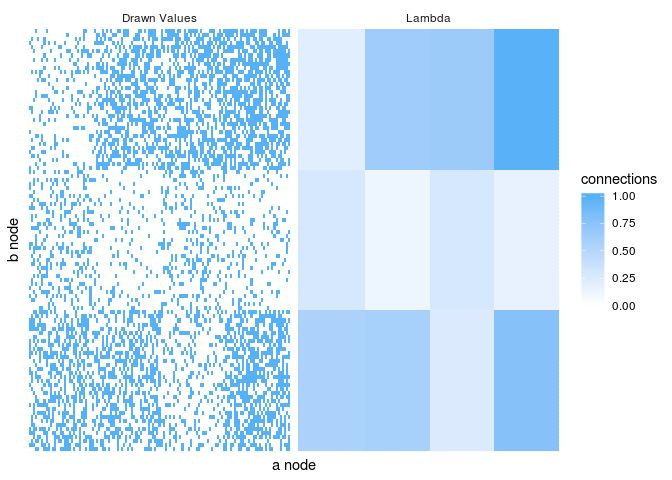
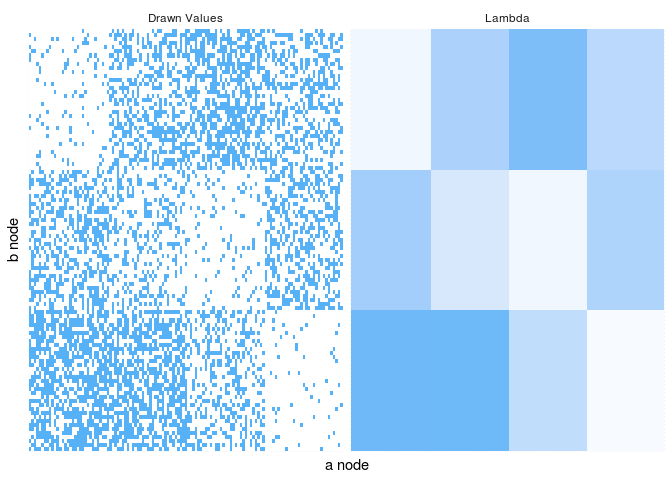
Updated readme with an example of drawing lots of datasets from a given planted pattern setup.

diff --git a/README.md b/README.md
@@ -22,12 +22,12 @@ devtools::install_github('tbilab/bisbmsim')
 library(bisbmsim)
 
 library(tidyverse)
-#> ── Attaching packages ─────────────────────────────────────────────────────────────────────────────────────────────────────────────────────────────────────────────────────────────────────────────── tidyverse 1.2.1 ──
+#> ── Attaching packages ────────────────────────────────────────────────────────────────────────────────────────────────────────────────────────────────────────────────────────────────────────────────────────────────────────────────────────────────────── tidyverse 1.2.1 ──
 #> ✔ ggplot2 3.2.1     ✔ purrr   0.3.2
 #> ✔ tibble  2.1.3     ✔ dplyr   0.8.3
 #> ✔ tidyr   0.8.3     ✔ stringr 1.4.0
 #> ✔ readr   1.3.1     ✔ forcats 0.4.0
-#> ── Conflicts ────────────────────────────────────────────────────────────────────────────────────────────────────────────────────────────────────────────────────────────────────────────────── tidyverse_conflicts() ──
+#> ── Conflicts ───────────────────────────────────────────────────────────────────────────────────────────────────────────────────────────────────────────────────────────────────────────────────────────────────────────────────────────────────────── tidyverse_conflicts() ──
 #> ✖ dplyr::filter() masks stats::filter()
 #> ✖ dplyr::lag()    masks stats::lag()
 library(magrittr)
@@ -90,12 +90,12 @@ all_node_pairs %>% head()
 #> # A tibble: 6 x 6
 #>       a     b a_group b_group avg_num_cons num_edges
 #>   <int> <int>   <int>   <int>        <dbl>     <int>
-#> 1     1     1       1       1        0.564         0
-#> 2     2     1       2       1        0.592         1
-#> 3     3     1       3       1        0.250         0
-#> 4     4     1       4       1        0.780         1
-#> 5     5     1       1       1        0.564         0
-#> 6     6     1       2       1        0.592         0
+#> 1     1     1       1       1       0.894          1
+#> 2     2     1       2       1       0.899          1
+#> 3     3     1       3       1       0.426          0
+#> 4     4     1       4       1       0.0535         0
+#> 5     5     1       1       1       0.894          0
+#> 6     6     1       2       1       0.899          0
 ```
 
 Plot results and compare with the generating lambda matrix.
@@ -111,6 +111,7 @@ plot_sim_results <- function(drawn_node_pairs){
     geom_tile(aes(fill = connections) ) +
     facet_wrap(~type) +
     scale_fill_gradient(low = "white", high = "#56B1F7") + 
+    guides(fill = FALSE) +
     labs(
       x = 'a node',
       y = 'b node'
@@ -137,7 +138,7 @@ my_patterns <- tribble(
     0,    0,    1,    1,     24
 )
 
-planted_model_params <- setup_planted_pattern_model(my_patterns, num_noise_nodes = 15)
+planted_model_params <- setup_planted_pattern_model(my_patterns, num_noise_nodes = 10)
 
 draw_from_planted <- planted_model_params %$%
   draw_from_model(b_a, b_b, Lambda)
@@ -146,3 +147,30 @@ plot_sim_results(draw_from_planted)
 ```
 
 <img src="man/figures/README-planted_simulation_results-1.png" width="100%" />
+
+# Lets actually draw a bunch of samples from this same pattern setup
+
+``` r
+num_draws <- 25
+
+all_draws <- 1:num_draws %>% 
+  purrr::map_dfr(function(draw_num){
+    planted_model_params %$%
+      draw_from_model(b_a, b_b, Lambda) %>% 
+      mutate(draw = draw_num)
+  })
+
+all_draws %>% 
+  mutate(num_edges = ifelse(num_edges >= 1, 1, 0)) %>% 
+  arrange(a_group, b_group) %>% 
+  ggplot(aes(x = reorder(a, a_group), y = reorder(b, b_group))) +
+    geom_tile(aes(fill = num_edges) ) +
+    scale_fill_gradient(low = "white", high = "#56B1F7") + 
+    guides(fill = FALSE) +
+    labs(x = 'a node', y = 'b node' ) +
+    facet_wrap(~draw) +
+    theme_minimal() +
+    theme(axis.text = element_blank())
+```
+
+<img src="man/figures/README-multiple_simulation_draws-1.png" width="100%" />
